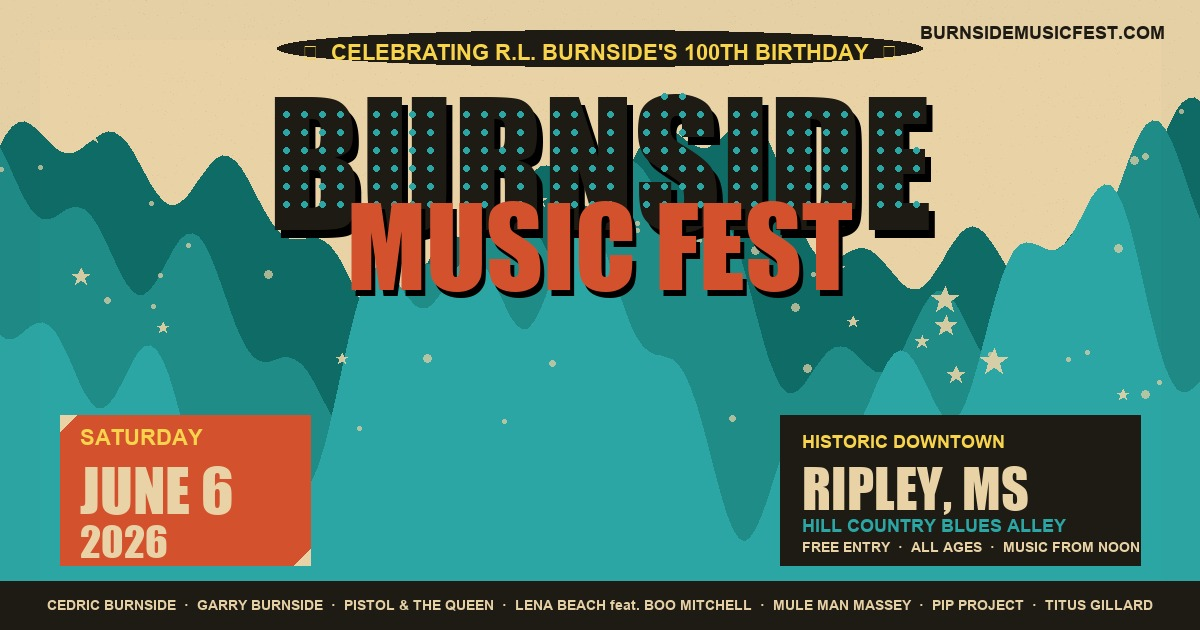
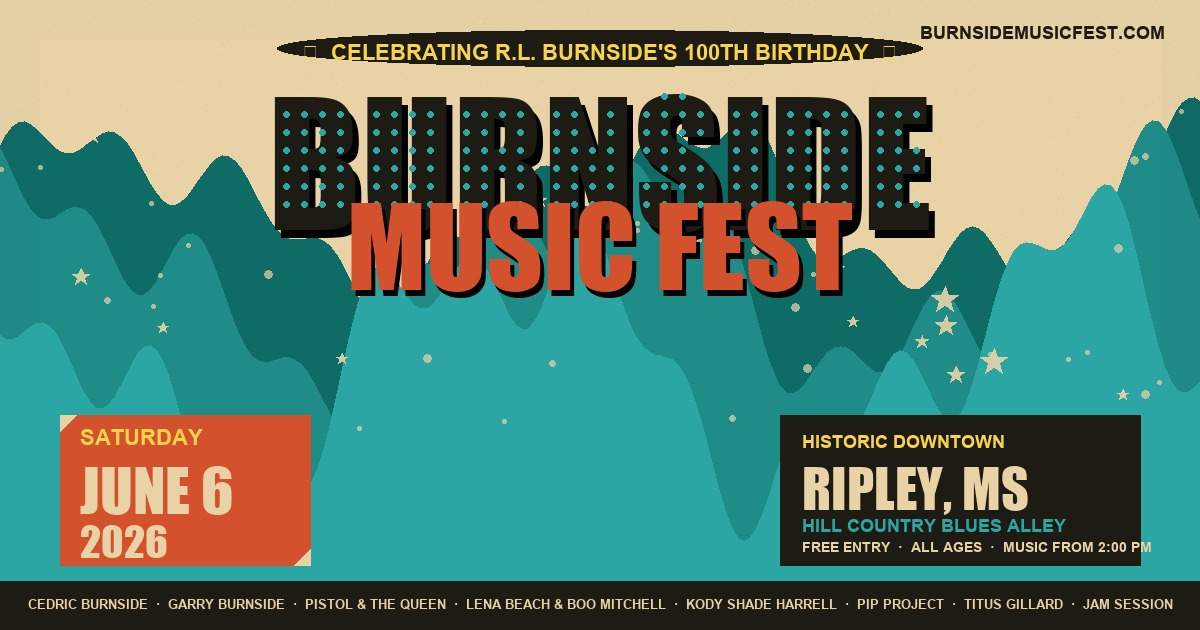
Update music lineup for 2026: remove Mark Massey, add Kody Shade Harrell, rearrange chronologically with set times

Changed region(s): [[0.0308, 0.9349, 0.9867, 0.9651], [0.8942, 0.8444, 0.9558, 0.8746]]

diff --git a/index.html b/index.html
@@ -6,7 +6,7 @@
 <meta name="theme-color" content="#0f1f22" />
 
 <title>Burnside Music Fest 2026 | Hill Country Blues in Ripley, MS | June 6</title>
-<meta name="description" content="Burnside Music Fest — a free Hill Country blues festival in historic downtown Ripley, Mississippi on Saturday, June 6, 2026. Celebrating R.L. Burnside's 100th birthday with Cedric Burnside, Garry Burnside, The Pistol and The Queen, Lena Beach feat. Boo Mitchell, plus a BBQ rib cookoff, vendors and food trucks." />
+<meta name="description" content="Burnside Music Fest — a free Hill Country blues festival in historic downtown Ripley, Mississippi on Saturday, June 6, 2026. Celebrating R.L. Burnside's 100th birthday with Cedric Burnside, Garry Burnside, Pistol and the Queen, Lena Beach and Boo Mitchell, Kody Shade Harrell, plus a BBQ rib cookoff, vendors and food trucks." />
 <meta name="keywords" content="Burnside Music Fest, Burnside Music Festival, BurnsideMusicFest.com, R.L. Burnside, Hill Country Blues, Ripley Mississippi, Mississippi blues festival, Cedric Burnside, Garry Burnside, Hill Country Blues Alley, Ripley Main Street, blues festival 2026, free blues festival Mississippi, R.L. Burnside 100th birthday" />
 <meta name="author" content="Ripley Main Street" />
 <meta name="robots" content="index, follow, max-snippet:-1, max-image-preview:large, max-video-preview:-1" />
@@ -23,7 +23,7 @@
 <meta property="og:type" content="website" />
 <meta property="og:site_name" content="Burnside Music Fest" />
 <meta property="og:title" content="Burnside Music Fest 2026 — Hill Country Blues in Ripley, MS" />
-<meta property="og:description" content="Saturday, June 6, 2026 · Downtown Ripley, Mississippi · Free Entry · Celebrating R.L. Burnside's 100th birthday with Cedric Burnside, Garry Burnside, The Pistol and The Queen, Lena Beach feat. Boo Mitchell, and more at BurnsideMusicFest.com." />
+<meta property="og:description" content="Saturday, June 6, 2026 · Downtown Ripley, Mississippi · Free Entry · Celebrating R.L. Burnside's 100th birthday with Cedric Burnside, Garry Burnside, Pistol and the Queen, Lena Beach and Boo Mitchell, Kody Shade Harrell, and more at BurnsideMusicFest.com." />
 <meta property="og:url" content="https://burnsidemusicfest.com/" />
 <meta property="og:image" content="https://burnsidemusicfest.com/og-burnside-fest-2026.jpg" />
 <meta property="og:image:secure_url" content="https://burnsidemusicfest.com/og-burnside-fest-2026.jpg" />
@@ -108,13 +108,13 @@
     "validFrom": "2025-12-01T00:00:00-05:00"
   },
   "performer": [
-    { "@type": "MusicGroup", "name": "Cedric Burnside", "url": "https://www.cedricburnside.net/", "sameAs": ["https://www.cedricburnside.net/", "https://en.wikipedia.org/wiki/Cedric_Burnside"] },
-    { "@type": "MusicGroup", "name": "Garry Burnside", "url": "https://garryburnsidemusic.com/", "sameAs": ["https://garryburnsidemusic.com/"] },
+    { "@type": "Person",     "name": "Kody Shade Harrell", "url": "https://linktr.ee/KodyShadeHarrell", "sameAs": ["https://linktr.ee/KodyShadeHarrell"] },
     { "@type": "MusicGroup", "name": "The Pistol and The Queen", "url": "https://www.thepistolandthequeen.com", "sameAs": ["https://www.thepistolandthequeen.com"] },
     { "@type": "MusicGroup", "name": "The Pip Project", "url": "https://www.facebook.com/profile.php?id=61579344298832", "sameAs": ["https://www.facebook.com/profile.php?id=61579344298832"] },
     { "@type": "Person",     "name": "Titus Gillard", "url": "https://www.instagram.com/thetitusgillardband/", "sameAs": ["https://www.instagram.com/thetitusgillardband/"] },
+    { "@type": "MusicGroup", "name": "Cedric Burnside", "url": "https://www.cedricburnside.net/", "sameAs": ["https://www.cedricburnside.net/", "https://en.wikipedia.org/wiki/Cedric_Burnside"] },
     { "@type": "MusicGroup", "name": "Lena Beach featuring Boo Mitchell", "url": "https://www.boomitchellmemphis.com/", "sameAs": ["https://www.boomitchellmemphis.com/", "https://royalstudios.com/"] },
-    { "@type": "Person",     "name": "Mark \u201CMule Man\u201D Massey", "url": "https://markmulemanmassey.com/", "sameAs": ["https://markmulemanmassey.com/"] }
+    { "@type": "MusicGroup", "name": "Garry Burnside", "url": "https://garryburnsidemusic.com/", "sameAs": ["https://garryburnsidemusic.com/"] }
   ],
   "keywords": "Burnside Music Fest, Burnside Music Festival, R.L. Burnside, Hill Country Blues, Ripley MS blues festival, Cedric Burnside, Garry Burnside, free blues festival Mississippi",
   "inLanguage": "en-US",
@@ -207,7 +207,7 @@
     {
       "@type": "Question",
       "name": "Who is performing at Burnside Music Festival 2026?",
-      "acceptedAnswer": { "@type": "Answer", "text": "The 2026 lineup features Cedric Burnside, Garry Burnside, The Pistol and The Queen, The Pip Project, Titus Gillard, Lena Beach featuring Grammy winner Boo Mitchell, and Mark \u201CMule Man\u201D Massey." }
+      "acceptedAnswer": { "@type": "Answer", "text": "The 2026 lineup features Kody Shade Harrell, Pistol and the Queen, The Pip Project, Titus Gillard, Cedric Burnside, Lena Beach & Boo Mitchell, Garry Burnside, plus a special Jam Session to close out the night." }
     },
     {
       "@type": "Question",
@@ -387,8 +387,8 @@
 <!-- ========== MARQUEE ========== -->
 <div class="marquee" aria-hidden="true">
   <div class="marquee__track">
-    <span>★ Cedric Burnside</span><span>★ The Pistol & The Queen</span><span>★ Garry Burnside</span><span>★ Lena Beach feat. Boo Mitchell</span><span>★ The Pip Project</span><span>★ Titus Gillard</span><span>★ Mark "Mule Man" Massey</span><span>★ BBQ Cookoff</span><span>★ Free Entry</span>
-    <span>★ Cedric Burnside</span><span>★ The Pistol & The Queen</span><span>★ Garry Burnside</span><span>★ Lena Beach feat. Boo Mitchell</span><span>★ The Pip Project</span><span>★ Titus Gillard</span><span>★ Mark "Mule Man" Massey</span><span>★ BBQ Cookoff</span><span>★ Free Entry</span>
+    <span>★ Cedric Burnside</span><span>★ Pistol & The Queen</span><span>★ Garry Burnside</span><span>★ Lena Beach & Boo Mitchell</span><span>★ Kody Shade Harrell</span><span>★ The Pip Project</span><span>★ Titus Gillard</span><span>★ Jam Session</span><span>★ BBQ Cookoff</span><span>★ Free Entry</span>
+    <span>★ Cedric Burnside</span><span>★ Pistol & The Queen</span><span>★ Garry Burnside</span><span>★ Lena Beach & Boo Mitchell</span><span>★ Kody Shade Harrell</span><span>★ The Pip Project</span><span>★ Titus Gillard</span><span>★ Jam Session</span><span>★ BBQ Cookoff</span><span>★ Free Entry</span>
   </div>
 </div>
 
@@ -439,38 +439,27 @@
     <header class="section-head">
       <p class="eyebrow">2026 Lineup</p>
       <h2 id="lineup-title">Seven acts. One street.<br/>All day and into the night.</h2>
-      <p class="section-head__sub">Live music starts at noon on the Hill Country Blues Alley stage. Set times announced closer to the date.</p>
+      <p class="section-head__sub">Live music starts at 2:00 PM on the Hill Country Blues Alley stage. Follow the schedule below!</p>
     </header>
 
     <ol class="lineup__grid">
 
-      <li class="artist artist--headline">
+      <li class="artist">
         <div class="artist__rank">01</div>
         <div class="artist__body">
-          <h3 class="artist__name">Cedric Burnside</h3>
-          <p class="artist__role">Headliner · Grammy winner · Grandson of R.L.</p>
-          <p class="artist__bio">Two-time Grammy winner and one of the most celebrated torchbearers of North Mississippi Hill Country blues. His 2021 album <em>I Be Trying</em> won Best Traditional Blues Album, carrying his grandfather's raw, driving style into a new generation.</p>
-          <div class="artist__tags"><span>Hill Country</span><span>Grammy winner</span><span>Drums + Guitar</span></div>
-          <p class="artist__link"><a href="https://www.cedricburnside.net/" target="_blank" rel="noopener">cedricburnside.net ↗</a></p>
+          <h3 class="artist__name">Kody Shade Harrell</h3>
+          <p class="artist__role">2:00 PM – 3:00 PM &nbsp;·&nbsp; Hill Country Blues · Psychedelic Guitarist</p>
+          <p class="artist__bio">Production assistant at Zebra Ranch Studio and member of the Cedric Burnside Band. Harrell brings an electrifying performance blending traditional country blues with psychedelic guitar improvisation and handcrafted cigar box instruments.</p>
+          <div class="artist__tags"><span>Zebra Ranch</span><span>Cigar Box Guitar</span><span>Hill Country</span></div>
+          <p class="artist__link"><a href="https://linktr.ee/KodyShadeHarrell" target="_blank" rel="noopener">linktr.ee/KodyShadeHarrell ↗</a></p>
         </div>
       </li>
 
       <li class="artist">
         <div class="artist__rank">02</div>
         <div class="artist__body">
-          <h3 class="artist__name">Garry Burnside</h3>
-          <p class="artist__role">Son of R.L. Burnside</p>
-          <p class="artist__bio">Youngest son of R.L. Burnside. Grew up playing alongside his father and Junior Kimbrough in the Holly Springs scene. His 2025 solo debut <em>It's My Time Now</em> (Strolling Bones Records) was recorded at Royal Studios with Grammy winner Boo Mitchell — a raw blend of blues, rock, and funk straight out of North Mississippi.</p>
-          <div class="artist__tags"><span>Hill Country</span><span>Holly Springs</span><span>Family tradition</span></div>
-          <p class="artist__link"><a href="https://garryburnsidemusic.com/" target="_blank" rel="noopener">garryburnsidemusic.com ↗</a></p>
-        </div>
-      </li>
-
-      <li class="artist">
-        <div class="artist__rank">03</div>
-        <div class="artist__body">
-          <h3 class="artist__name">The Pistol &amp; The Queen</h3>
-          <p class="artist__role">Regal Rock &amp; Roll · Blues-rock duo</p>
+          <h3 class="artist__name">Pistol and the Queen</h3>
+          <p class="artist__role">3:15 PM – 4:15 PM &nbsp;·&nbsp; Regal Rock &amp; Roll · Blues-rock duo</p>
           <p class="artist__bio">Formed after a chance meeting in London, this blues-rock duo made their way to Mississippi and never looked back. Ten years in, they're still bringing their signature "Regal Rock &amp; Roll" wherever they go.</p>
           <div class="artist__tags"><span>Blues-rock</span><span>Duo</span><span>London → Mississippi</span></div>
           <p class="artist__link"><a href="https://www.thepistolandthequeen.com" target="_blank" rel="noopener">thepistolandthequeen.com ↗</a></p>
@@ -478,32 +467,10 @@
       </li>
 
       <li class="artist">
-        <div class="artist__rank">04</div>
-        <div class="artist__body">
-          <h3 class="artist__name">Lena Beach <span class="artist__feat">feat. Boo Mitchell</span></h3>
-          <p class="artist__role">Memphis soul meets the hills</p>
-          <p class="artist__bio">A rising vocalist bridging classic Memphis R&amp;B with contemporary blues, sharing the stage with Grammy-winning producer Boo Mitchell of Royal Studios — the legendary home of Al Green and the Hi Records sound.</p>
-          <div class="artist__tags"><span>Soul</span><span>Royal Studios</span><span>Grammy collab</span></div>
-          <p class="artist__link"><a href="https://www.boomitchellmemphis.com/" target="_blank" rel="noopener">boomitchellmemphis.com ↗</a> &nbsp;·&nbsp; <a href="https://www.royalstudios.com" target="_blank" rel="noopener">royalstudios.com ↗</a></p>
-        </div>
-      </li>
-
-      <li class="artist">
-        <div class="artist__rank">05</div>
-        <div class="artist__body">
-          <h3 class="artist__name">Mark "Mule Man" Massey</h3>
-          <p class="artist__role">Clarksdale bluesman · Mississippi Blues Trail</p>
-          <p class="artist__bio">Clarksdale-raised bluesman whose story runs through Parchman — where he first learned to play from David Kimbrough — to a Mississippi Blues Trail marker at the prison's front gate. Down-south funk, slide, and some of the most lived-in blues you'll hear all year.</p>
-          <div class="artist__tags"><span>Delta</span><span>Blues Trail</span><span>Down-south funk</span></div>
-          <p class="artist__link"><a href="https://markmulemanmassey.com/" target="_blank" rel="noopener">markmulemanmassey.com ↗</a></p>
-        </div>
-      </li>
-
-      <li class="artist">
-        <div class="artist__rank">06</div>
+        <div class="artist__rank">03</div>
         <div class="artist__body">
           <h3 class="artist__name">The Pip Project</h3>
-          <p class="artist__role">Mississippi blues · funk · soul</p>
+          <p class="artist__role">4:30 PM – 5:30 PM &nbsp;·&nbsp; Mississippi blues · funk · soul</p>
           <p class="artist__bio">A Mississippi-rooted ensemble blending blues, funk, and soul with a contemporary edge. High-energy live performances built on the deep musical heritage of the Magnolia State.</p>
           <div class="artist__tags"><span>Blues</span><span>Funk</span><span>Soul</span></div>
           <p class="artist__link"><a href="https://www.facebook.com/profile.php?id=61579344298832" target="_blank" rel="noopener">Facebook ↗</a></p>
@@ -511,13 +478,57 @@
       </li>
 
       <li class="artist">
-        <div class="artist__rank">07</div>
+        <div class="artist__rank">04</div>
         <div class="artist__body">
           <h3 class="artist__name">Titus Gillard</h3>
-          <p class="artist__role">Mississippi blues · singer &amp; guitarist</p>
+          <p class="artist__role">5:45 PM – 6:45 PM &nbsp;·&nbsp; Mississippi blues · singer &amp; guitarist</p>
           <p class="artist__bio">Left-handed Mississippi blues guitarist from Myrtle, MS. Draws on Hendrix and Stevie Ray Vaughan while staying rooted in the state's rich tradition — has shared stages with Eric Gales, Mr. Sipp, Dexter Allen, and Garry Burnside.</p>
           <div class="artist__tags"><span>Blues Power</span><span>Myrtle, MS</span><span>Left-handed</span></div>
           <p class="artist__link"><a href="https://www.instagram.com/thetitusgillardband/" target="_blank" rel="noopener">@thetitusgillardband ↗</a></p>
+        </div>
+      </li>
+
+      <li class="artist artist--headline">
+        <div class="artist__rank">05</div>
+        <div class="artist__body">
+          <h3 class="artist__name">Cedric Burnside</h3>
+          <p class="artist__role">7:00 PM – 8:00 PM &nbsp;·&nbsp; Headliner · Grammy winner · Grandson of R.L.</p>
+          <p class="artist__bio">Two-time Grammy winner and one of the most celebrated torchbearers of North Mississippi Hill Country blues. His 2021 album <em>I Be Trying</em> won Best Traditional Blues Album, carrying his grandfather's raw, driving style into a new generation.</p>
+          <div class="artist__tags"><span>Hill Country</span><span>Grammy winner</span><span>Drums + Guitar</span></div>
+          <p class="artist__link"><a href="https://www.cedricburnside.net/" target="_blank" rel="noopener">cedricburnside.net ↗</a></p>
+        </div>
+      </li>
+
+      <li class="artist">
+        <div class="artist__rank">06</div>
+        <div class="artist__body">
+          <h3 class="artist__name">Lena Beach &amp; Boo Mitchell</h3>
+          <p class="artist__role">8:15 PM – 9:15 PM &nbsp;·&nbsp; Memphis soul meets the hills</p>
+          <p class="artist__bio">A rising vocalist bridging classic Memphis R&amp;B with contemporary blues, sharing the stage with Grammy-winning producer Boo Mitchell of Royal Studios — the legendary home of Al Green and the Hi Records sound.</p>
+          <div class="artist__tags"><span>Soul</span><span>Royal Studios</span><span>Grammy collab</span></div>
+          <p class="artist__link"><a href="https://www.boomitchellmemphis.com/" target="_blank" rel="noopener">boomitchellmemphis.com ↗</a> &nbsp;·&nbsp; <a href="https://www.royalstudios.com" target="_blank" rel="noopener">royalstudios.com ↗</a></p>
+        </div>
+      </li>
+
+      <li class="artist">
+        <div class="artist__rank">07</div>
+        <div class="artist__body">
+          <h3 class="artist__name">Garry Burnside</h3>
+          <p class="artist__role">9:30 PM – 10:00 PM &nbsp;·&nbsp; Son of R.L. Burnside</p>
+          <p class="artist__bio">Youngest son of R.L. Burnside. Grew up playing alongside his father and Junior Kimbrough in the Holly Springs scene. His 2025 solo debut <em>It's My Time Now</em> (Strolling Bones Records) was recorded at Royal Studios with Grammy winner Boo Mitchell — a raw blend of blues, rock, and funk straight out of North Mississippi.</p>
+          <div class="artist__tags"><span>Hill Country</span><span>Holly Springs</span><span>Family tradition</span></div>
+          <p class="artist__link"><a href="https://garryburnsidemusic.com/" target="_blank" rel="noopener">garryburnsidemusic.com ↗</a></p>
+        </div>
+      </li>
+
+      <li class="artist artist--headline">
+        <div class="artist__rank">08</div>
+        <div class="artist__body">
+          <h3 class="artist__name">Jam Session to Follow</h3>
+          <p class="artist__role">10:00 PM – Close &nbsp;·&nbsp; All-Star Collaborative Finale</p>
+          <p class="artist__bio">An epic, open-ended jam session featuring festival performers and special guests coming together to close out the night in true Hill Country style, honoring the legacy of R.L. Burnside through spontaneous musical collaboration.</p>
+          <div class="artist__tags"><span>Collaboration</span><span>All-Star Jam</span><span>Grand Finale</span></div>
+          <p class="artist__link"><a href="https://www.facebook.com/RipleyMainSt" target="_blank" rel="noopener">Ripley Main Street ↗</a></p>
         </div>
       </li>
 
@@ -565,8 +576,8 @@
         <div class="tile__icon" aria-hidden="true">
           <svg viewBox="0 0 48 48" fill="none"><path d="M12 10 V36 A6 6 0 0 0 24 36 V14 L36 10 V30 A6 6 0 0 1 24 30" stroke="currentColor" stroke-width="2" stroke-linejoin="round"/></svg>
         </div>
-        <h3>Live Music From Noon</h3>
-        <p>One stage. Seven acts. Starting at 12 PM sharp on the Hill Country Blues Alley stage and running deep into the evening.</p>
+        <h3>Live Music From 2:00 PM</h3>
+        <p>One stage. Seven scheduled acts plus a closing jam session. Music runs all afternoon and straight through the night.</p>
       </article>
 
       <article class="tile">
@@ -709,7 +720,7 @@
       </details>
       <details>
         <summary>What time does the music start?</summary>
-        <p>Live music kicks off at 12:00 PM on Saturday, June 6, 2026, and runs all afternoon into the evening. Headliner set times will be announced in the weeks leading up to the festival.</p>
+        <p>Live music kicks off at 2:00 PM on Saturday, June 6, 2026, with acts performing throughout the afternoon and evening. Gates and other activities like the vendor booths and Rib Cookoff open at 12:00 PM.</p>
       </details>
       <details>
         <summary>Can I bring a chair or cooler?</summary>
@@ -840,7 +851,7 @@
         <li><a href="https://www.cedricburnside.net/" target="_blank" rel="noopener">Cedric Burnside ↗</a></li>
         <li><a href="https://garryburnsidemusic.com/" target="_blank" rel="noopener">Garry Burnside ↗</a></li>
         <li><a href="https://www.thepistolandthequeen.com" target="_blank" rel="noopener">The Pistol &amp; The Queen ↗</a></li>
-        <li><a href="https://markmulemanmassey.com/" target="_blank" rel="noopener">Mark "Mule Man" Massey ↗</a></li>
+        <li><a href="https://linktr.ee/KodyShadeHarrell" target="_blank" rel="noopener">Kody Shade Harrell ↗</a></li>
         <li><a href="https://www.royalstudios.com" target="_blank" rel="noopener">Royal Studios (Boo Mitchell) ↗</a></li>
       </ul>
     </div>

diff --git a/make_og.py b/make_og.py
@@ -158,13 +158,13 @@ d.rectangle((lx, ly, lx + 360, ly + 150), fill=INK)
 d.text((lx + 22, ly + 16), "HISTORIC DOWNTOWN", font=ImageFont.truetype(f"{FONTS}/arialbd.ttf", 18), fill=YELLOW)
 d.text((lx + 22, ly + 40), "RIPLEY, MS", font=ImageFont.truetype(f"{FONTS}/impact.ttf", 54), fill=CREAM)
 d.text((lx + 22, ly + 100), "HILL COUNTRY BLUES ALLEY", font=ImageFont.truetype(f"{FONTS}/arialbd.ttf", 18), fill=TEAL)
-d.text((lx + 22, ly + 124), "FREE ENTRY  ·  ALL AGES  ·  MUSIC FROM NOON", font=ImageFont.truetype(f"{FONTS}/arialbd.ttf", 14), fill=CREAM)
+d.text((lx + 22, ly + 124), "FREE ENTRY  ·  ALL AGES  ·  MUSIC FROM 2:00 PM", font=ImageFont.truetype(f"{FONTS}/arialbd.ttf", 14), fill=CREAM)
 
 # ---------- Lineup ribbon (bottom) ----------
 rh = 50
 d.rectangle((0, H - rh, W, H), fill=INK)
 d.rectangle((0, H - rh - 4, W, H - rh), fill=TEAL)
-lineup = "CEDRIC BURNSIDE  ·  GARRY BURNSIDE  ·  PISTOL & THE QUEEN  ·  LENA BEACH feat. BOO MITCHELL  ·  MULE MAN MASSEY  ·  PIP PROJECT  ·  TITUS GILLARD"
+lineup = "CEDRIC BURNSIDE  ·  GARRY BURNSIDE  ·  PISTOL & THE QUEEN  ·  LENA BEACH & BOO MITCHELL  ·  KODY SHADE HARRELL  ·  PIP PROJECT  ·  TITUS GILLARD  ·  JAM SESSION"
 # auto-fit font size so it never overflows
 fs = 22
 while fs > 10:
